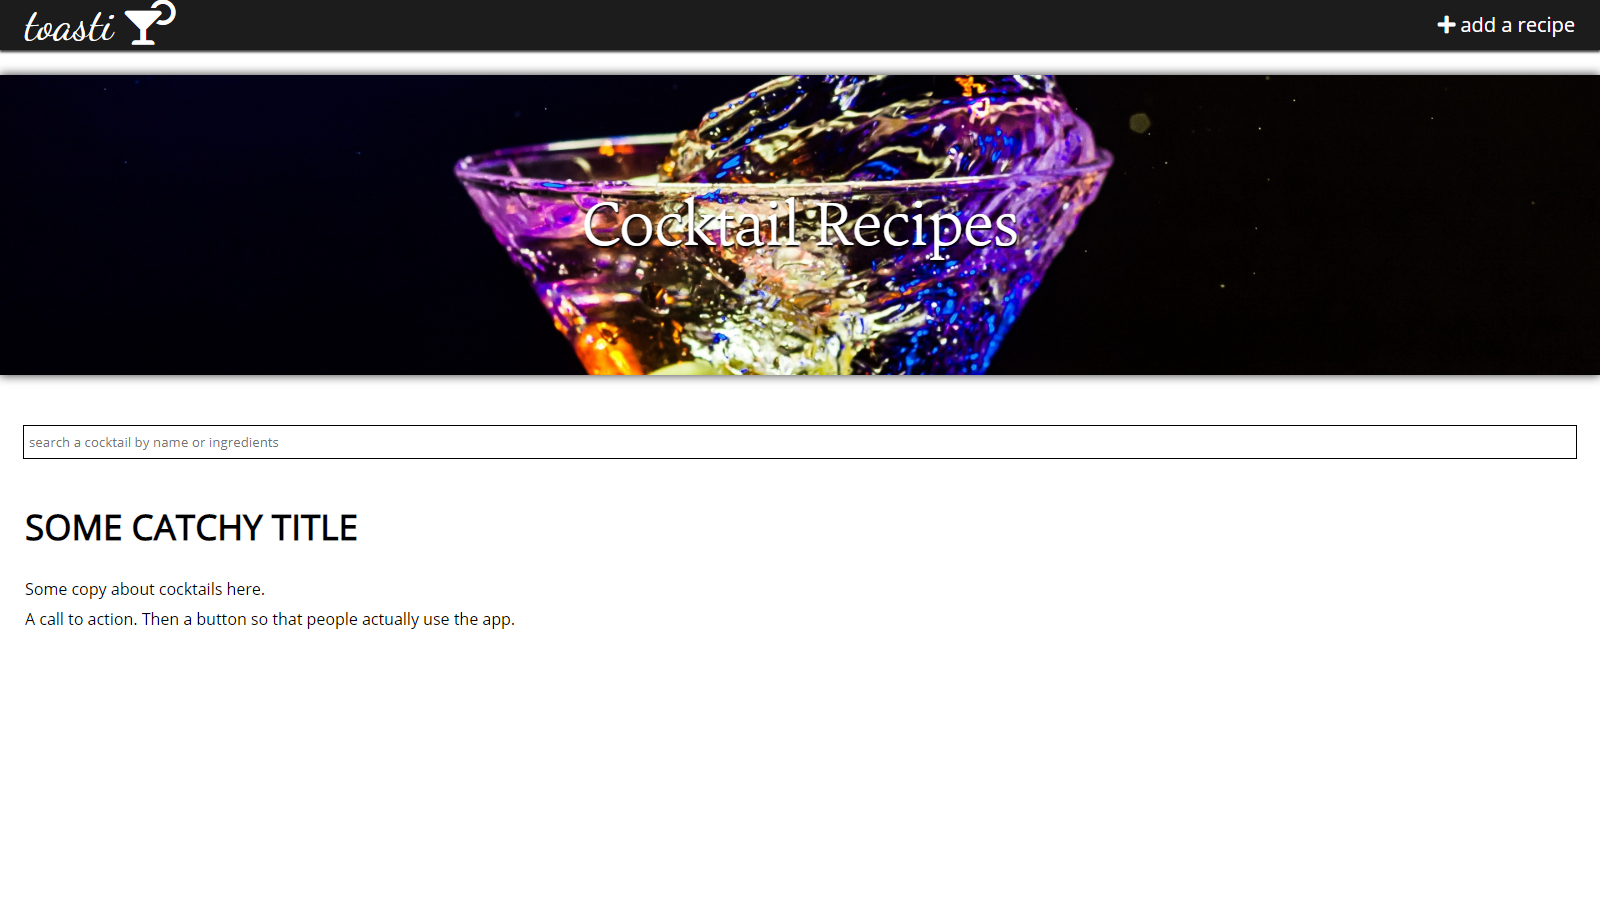
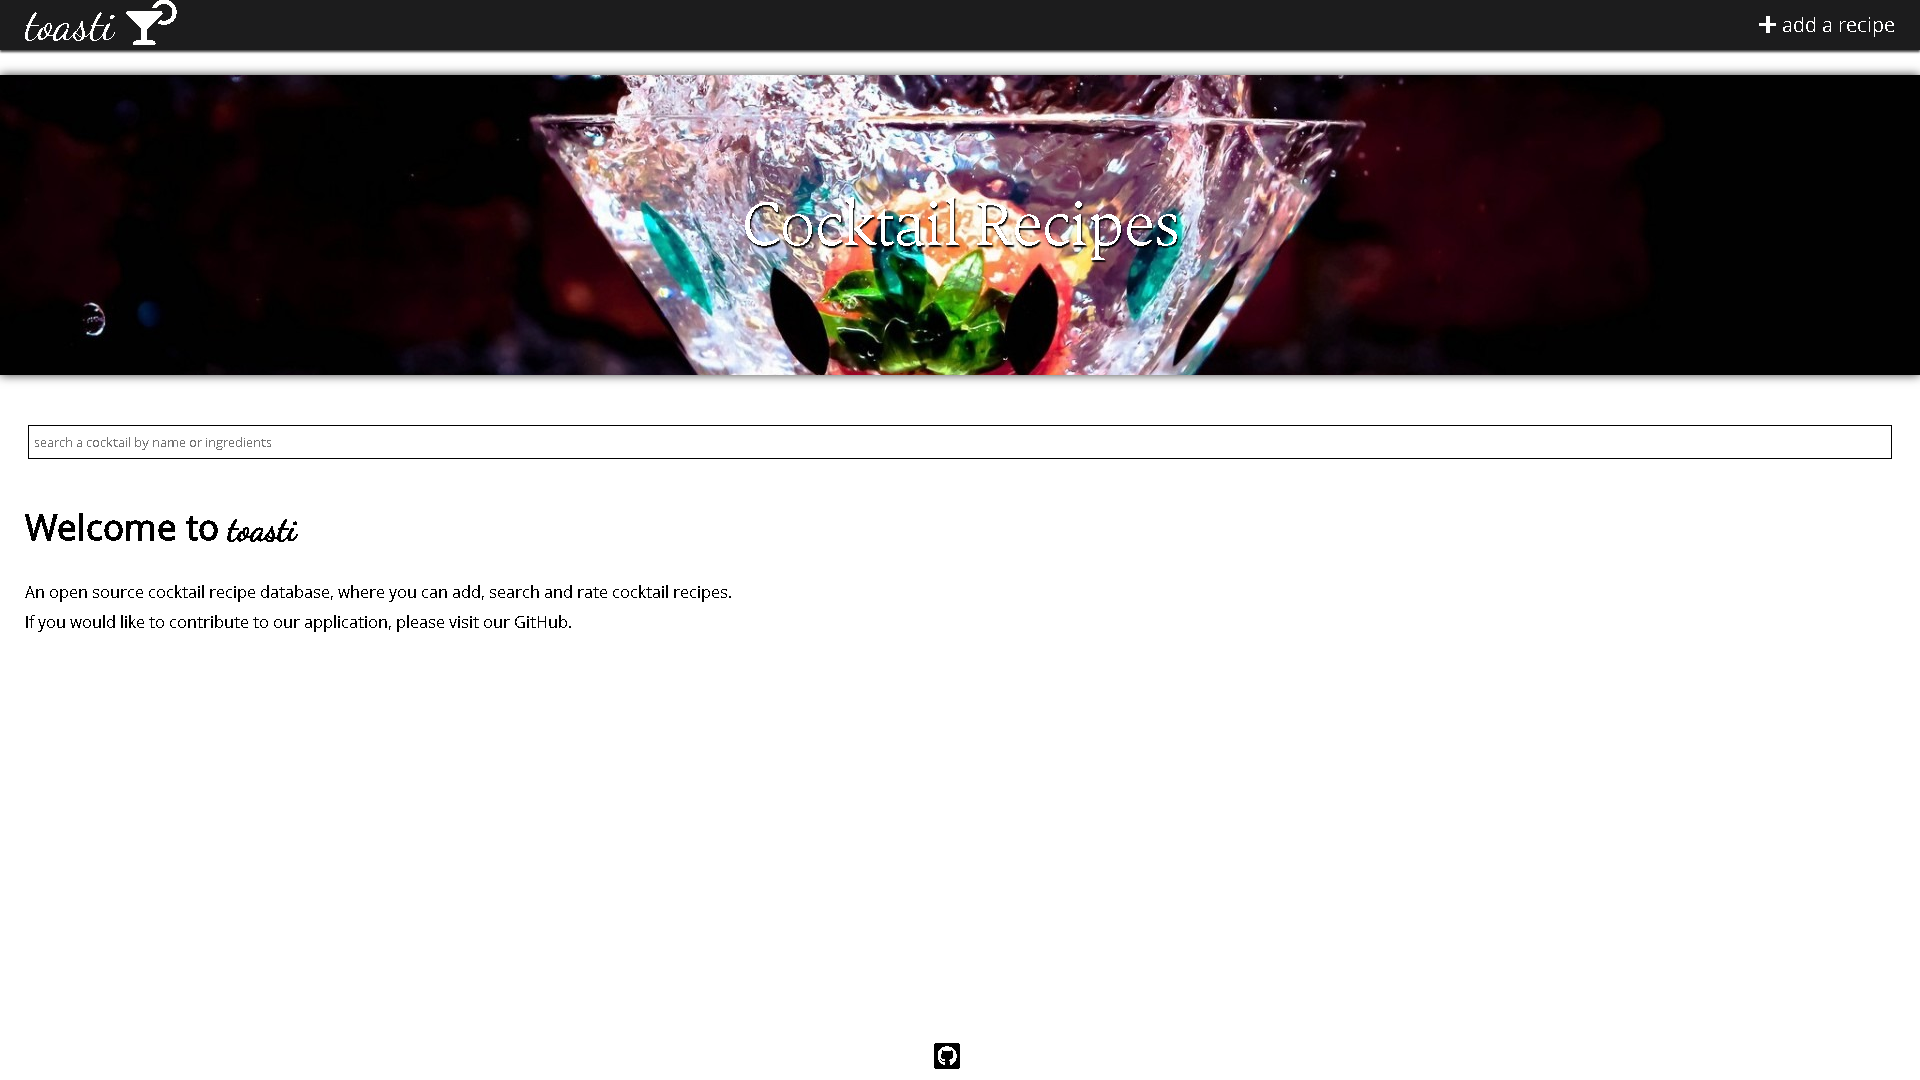
clickable items change color on hover

diff --git a/public/js/search.js b/public/js/search.js
@@ -4,3 +4,30 @@
 //return the results : a list of json objects back- the name, the instructions, the ingredients, the rating
 //order the recipes by rating
 //render the results 
+
+$('document').ready(function () {
+    const search = function () {
+      const parsedUrl = new URL(window.location.href);//href is the full URL.Parsing the URL makes it easy to get the search param.
+      const searchterm = parsedUrl.searchParams.get("q");//This is getting the query the user entered onto the index page.https://developer.mozilla.org/en-US/docs/Web/API/URL
+      fetch(`/api/recipe?q=${searchterm}`).then(function (res) {
+        return res.json();
+      }).then(function (data) {
+        const el = $('.search-results');
+        el.empty();
+        data.forEach(function (recipe) {
+          const recipeEl = $('<div class="info">');
+          recipeEl.append(`<h3 class="recipe-title">${recipe.name}</h3>`); //Christian's TotalStar class goes here
+          recipeEl.append(`<p class="instruction-body">${recipe.instruction}</p>`);
+  
+          const ingredientsListEl = $(`<ul class="ingredient-list">`);
+          recipe.ingredients.forEach(function (ingredient) {
+            ingredientsListEl.append(`<li>${ingredient.name}</li>`);
+          });
+          
+          recipeEl.append(ingredientsListEl)
+          el.append(recipeEl);
+        });
+      })
+    }
+    search();
+  });

diff --git a/public/html/add_recipe.html b/public/html/add_recipe.html
@@ -5,6 +5,7 @@
     <meta charset="UTF-8">
     <meta name="viewport" content="width=device-width, initial-scale=1.0">
     <meta http-equiv="X-UA-Compatible" content="ie=edge">
+    <link rel="shortcut icon" type="image/png" href="../assets/cocktail-icon.png"/>
     <link rel="stylesheet" href="../css/reset.css" />
     <link href="https://fonts.googleapis.com/css?family=Lora|Open+Sans|Dancing+Script" rel="stylesheet">
     <link rel="stylesheet" href="https://use.fontawesome.com/releases/v5.3.1/css/all.css" integrity="sha384-mzrmE5qonljUremFsqc01SB46JvROS7bZs3IO2EmfFsd15uHvIt+Y8vEf7N7fWAU"
@@ -26,13 +27,10 @@
             <input placeholder="Name" class="recipe-name" />
             <input placeholder="Instructions" class="instructions" />
             <input placeholder="Ingredients" class="ingredients" />
-            <button type="submit" class="submit-recipe">Submit Recipe <i class="fas fa-sign-in-alt"></i></button>
+            <button type="submit" class="submit-recipe">Submit Recipe   <i class="fas fa-sign-in-alt"></i></button>
         </form>
         <div class="data-message"></div>
     </div>
-    <footer>
-        <a href="https://github.com/zmiles17/toasti" target="_blank"><i class="fab fa-github-square"></i></a>
-    </footer>
 </body>
 <script src="https://code.jquery.com/jquery.js"></script>
 <script src="../js/app.js"></script>

diff --git a/public/js/app.js b/public/js/app.js
@@ -4,7 +4,23 @@
 
 //search function should not 
 
+$('document').ready(function () {
+    //this function is redirecting to the search-results.html
+    const resultsNavigation = function () {
+        const searchterm = $('.search-bar').val();
+        if (window) {
+            //encodeURIComponent encodes the user input so the browser interprets it correctly
+            //(prevents the browser from breaking when symbols are entered by the user)
+            window.location = `/search_results?q=${encodeURIComponent(searchterm)}`;
+        }
+    }
 
+    $('.search-bar').keypress(function (e) {
+        if (e.which == 13) {//Enter key pressed
+            e.preventDefault();
+            resultsNavigation();//Trigger search button click event
+        }
+    });
 let imageIndex = 0;
 const numImages = 7;
 
@@ -15,4 +31,4 @@ function transition () {
 }
 
 setInterval(transition, 5000);
-
+});

diff --git a/public/html/index.html b/public/html/index.html
@@ -5,6 +5,7 @@
     <meta charset="UTF-8">
     <meta name="viewport" content="width=device-width, initial-scale=1.0">
     <meta http-equiv="X-UA-Compatible" content="ie=edge">
+    <link rel="shortcut icon" type="image/png" href="../assets/cocktail-icon.png"/>
     <link rel="stylesheet" href="../css/reset.css" />
     <link href="https://fonts.googleapis.com/css?family=Lora|Open+Sans|Dancing+Script" rel="stylesheet">
     <link rel="stylesheet" href="https://use.fontawesome.com/releases/v5.3.1/css/all.css" integrity="sha384-mzrmE5qonljUremFsqc01SB46JvROS7bZs3IO2EmfFsd15uHvIt+Y8vEf7N7fWAU"

diff --git a/public/html/search_results.html b/public/html/search_results.html
@@ -5,6 +5,7 @@
     <meta charset="UTF-8">
     <meta name="viewport" content="width=device-width, initial-scale=1.0">
     <meta http-equiv="X-UA-Compatible" content="ie=edge">
+    <link rel="shortcut icon" type="image/png" href="../assets/cocktail-icon.png"/>
     <link rel="stylesheet" href="../css/reset.css" />
     <link href="https://fonts.googleapis.com/css?family=Lora|Open+Sans|Dancing+Script" rel="stylesheet">
     <link rel="stylesheet" href="https://use.fontawesome.com/releases/v5.3.1/css/all.css" integrity="sha384-mzrmE5qonljUremFsqc01SB46JvROS7bZs3IO2EmfFsd15uHvIt+Y8vEf7N7fWAU"

diff --git a/public/css/style.css b/public/css/style.css
@@ -47,7 +47,9 @@ h2 {
     font-weight: 700;
     font-size: 30px;
 }
-
+.submit-recipe:hover {
+    color: rgb(167, 168, 255);
+}
 .data-message {
     font-family: "Dancing Script";
     font-weight: 700;
@@ -110,6 +112,9 @@ a{
     color: inherit;
     cursor: pointer;
 }
+a:hover {
+    color: rgb(167, 168, 255);
+}
 input {
     border: black 1px solid;
     width: 97%;
@@ -132,4 +137,5 @@ h3 {
 
 p {
     line-height: 30px;
+    margin-right: 15px;
 }
